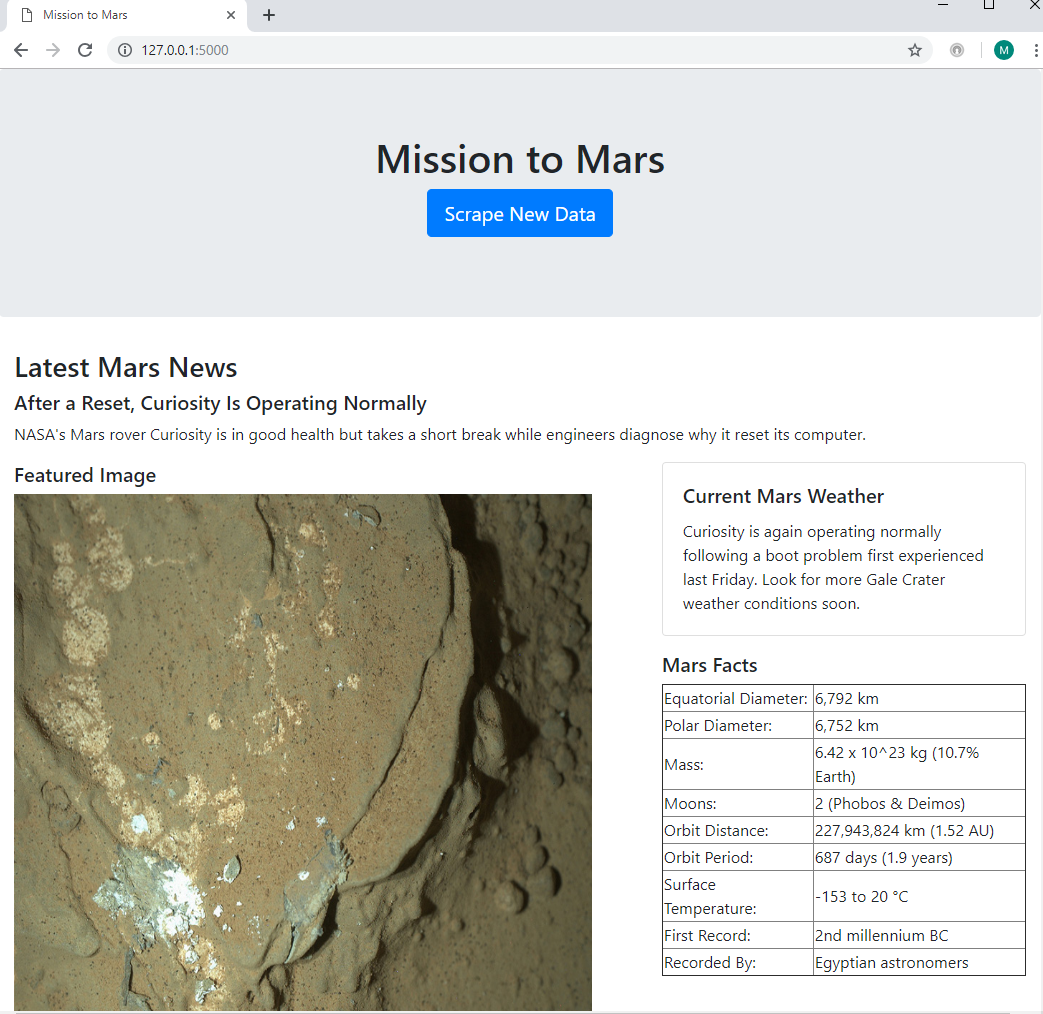
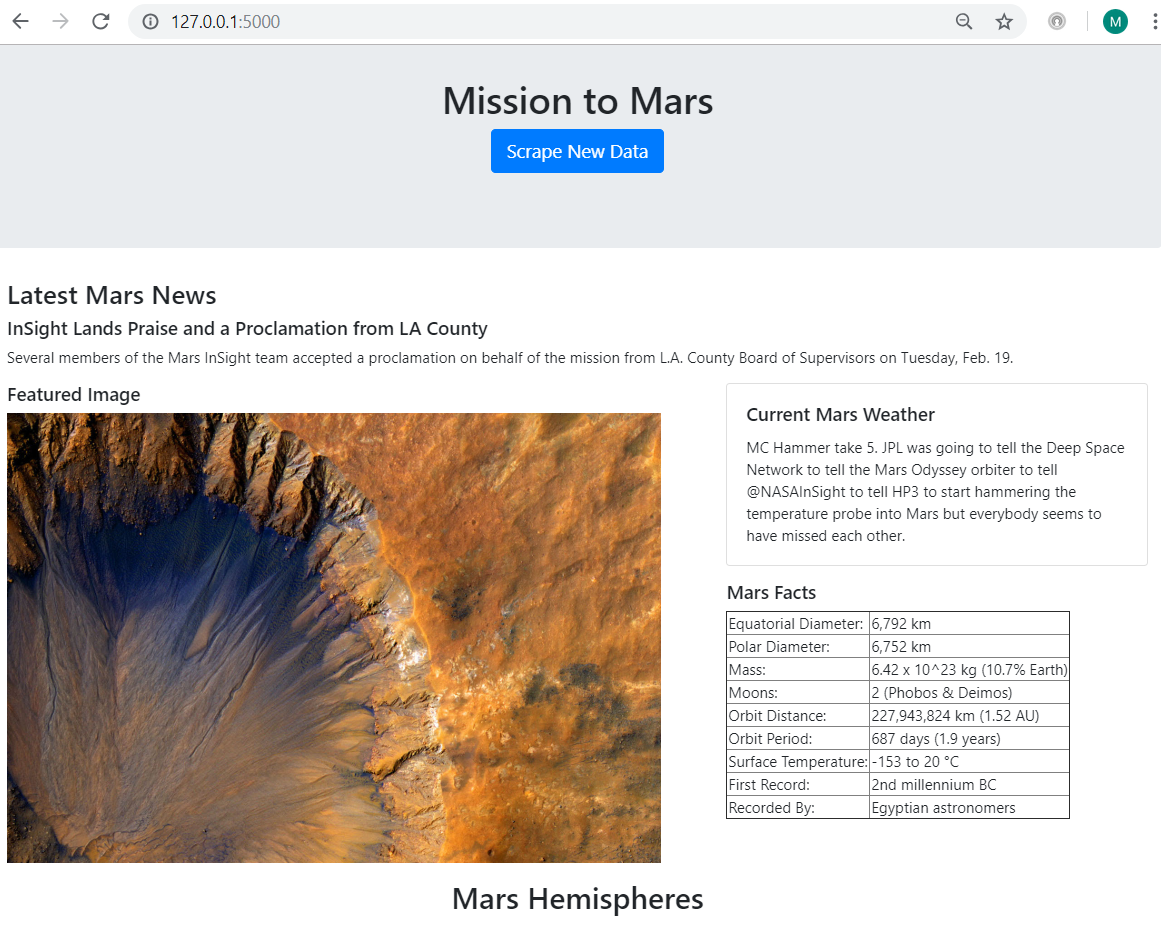
Added largesize image url in featured image url. Also changed the screenshots accordingly.

diff --git a/scrape_mars.py b/scrape_mars.py
@@ -25,16 +25,28 @@ def scrape():
     soup = get_soup_from_url("https://mars.nasa.gov/news/", browser)
     news_title = soup.find("div",class_="content_title").text
     news_p = soup.find("div", class_="article_teaser_body").text
-    print(f"Title is: {news_title}")
-    print(f"Paragraph is : {news_p}")
+    # print(f"Title is: {news_title}")
+    # print(f"Paragraph is : {news_p}")
 
     mars_data_dict['title'] = news_title
     mars_data_dict['paragraph'] = news_p
     
     ##### ------------------ For Mars featured Image URL -------------------------------------------------------------
-    soup = get_soup_from_url('https://www.jpl.nasa.gov/spaceimages/?search=&category=Mars', browser)
-    image_src = soup.find("a", class_="fancybox")['data-fancybox-href']
-    featured_image_url = "https://www.jpl.nasa.gov" + image_src
+    soup = get_soup_from_url("https://www.jpl.nasa.gov/spaceimages/?search=&category=Mars", browser)
+    href_link = soup.find("a", class_="fancybox")['data-link']
+    domain_link = "https://www.jpl.nasa.gov"
+    browser.click_link_by_id('full_image')
+    time.sleep(1)
+    try:
+        print('in try')
+        new_link = domain_link + href_link
+        print(f"new link is {new_link}")
+        soup_new = get_soup_from_url(new_link, browser)
+        image_src = soup_new.find("img", class_="main_image")['src']
+        featured_image_url = domain_link + image_src
+    except:
+        featured_image_url = "In featured image URL - Sorry the URL you requested is not found."
+    print(featured_image_url)
     
     mars_data_dict['featured_image_url'] = featured_image_url
 
